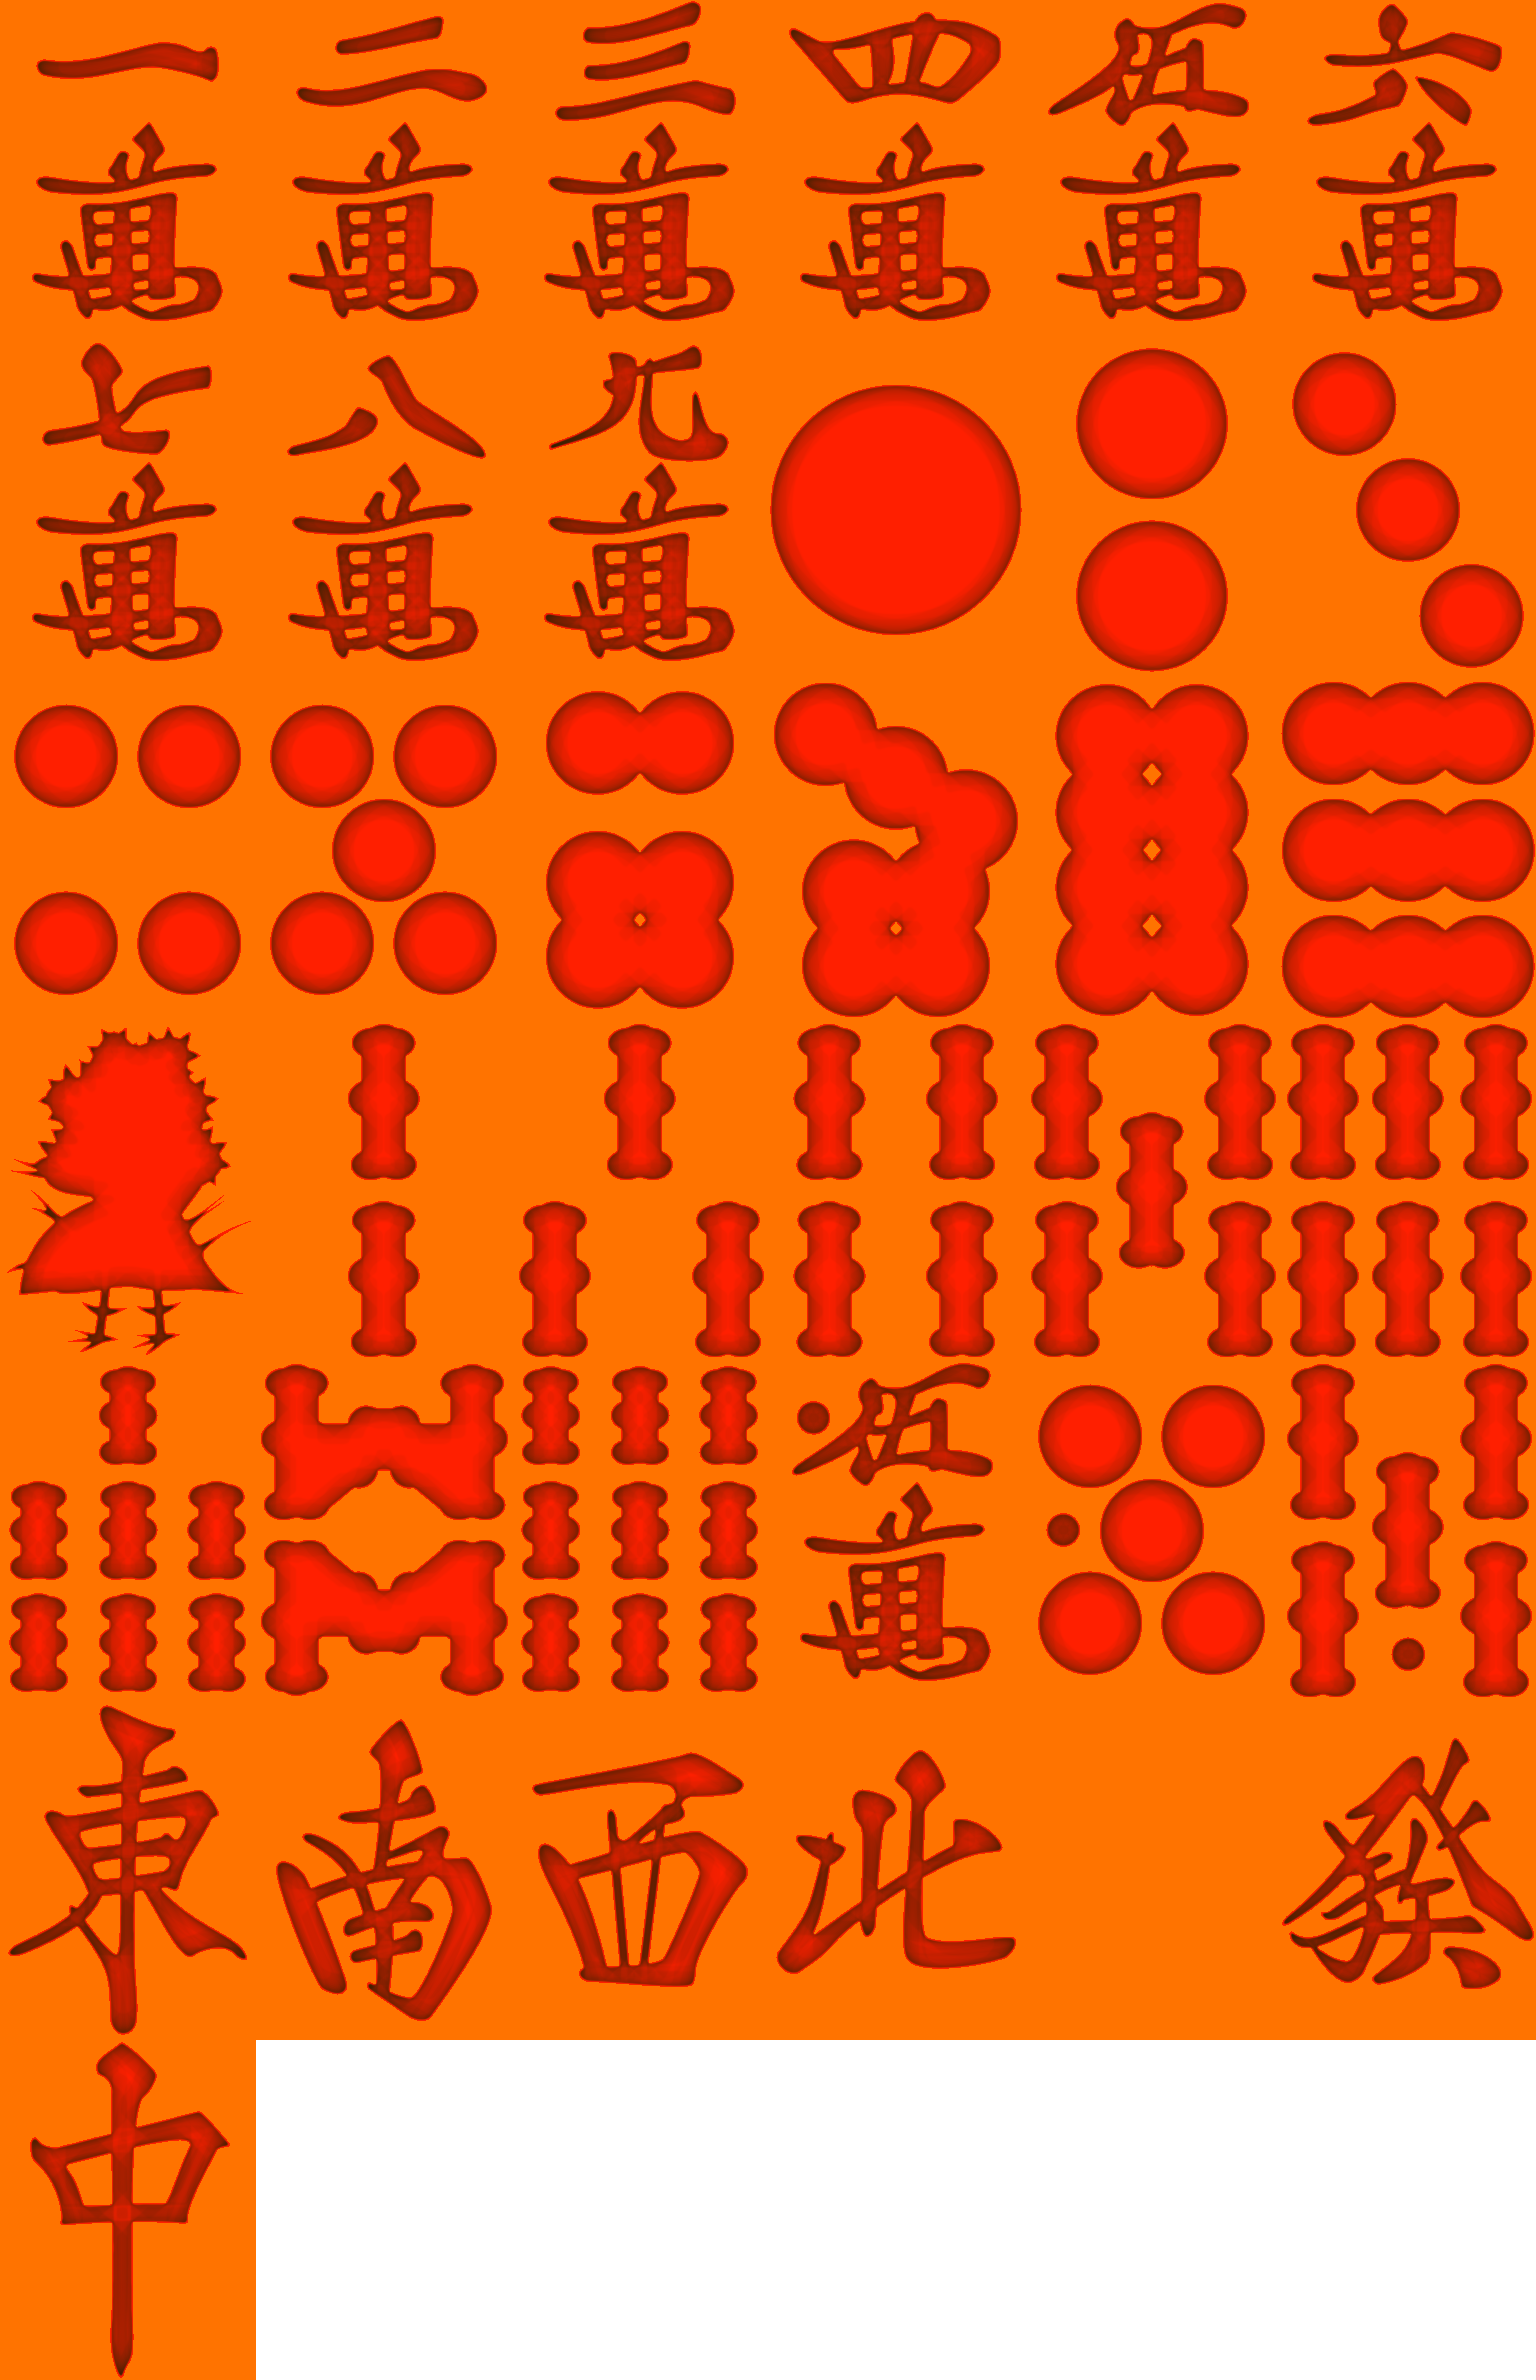
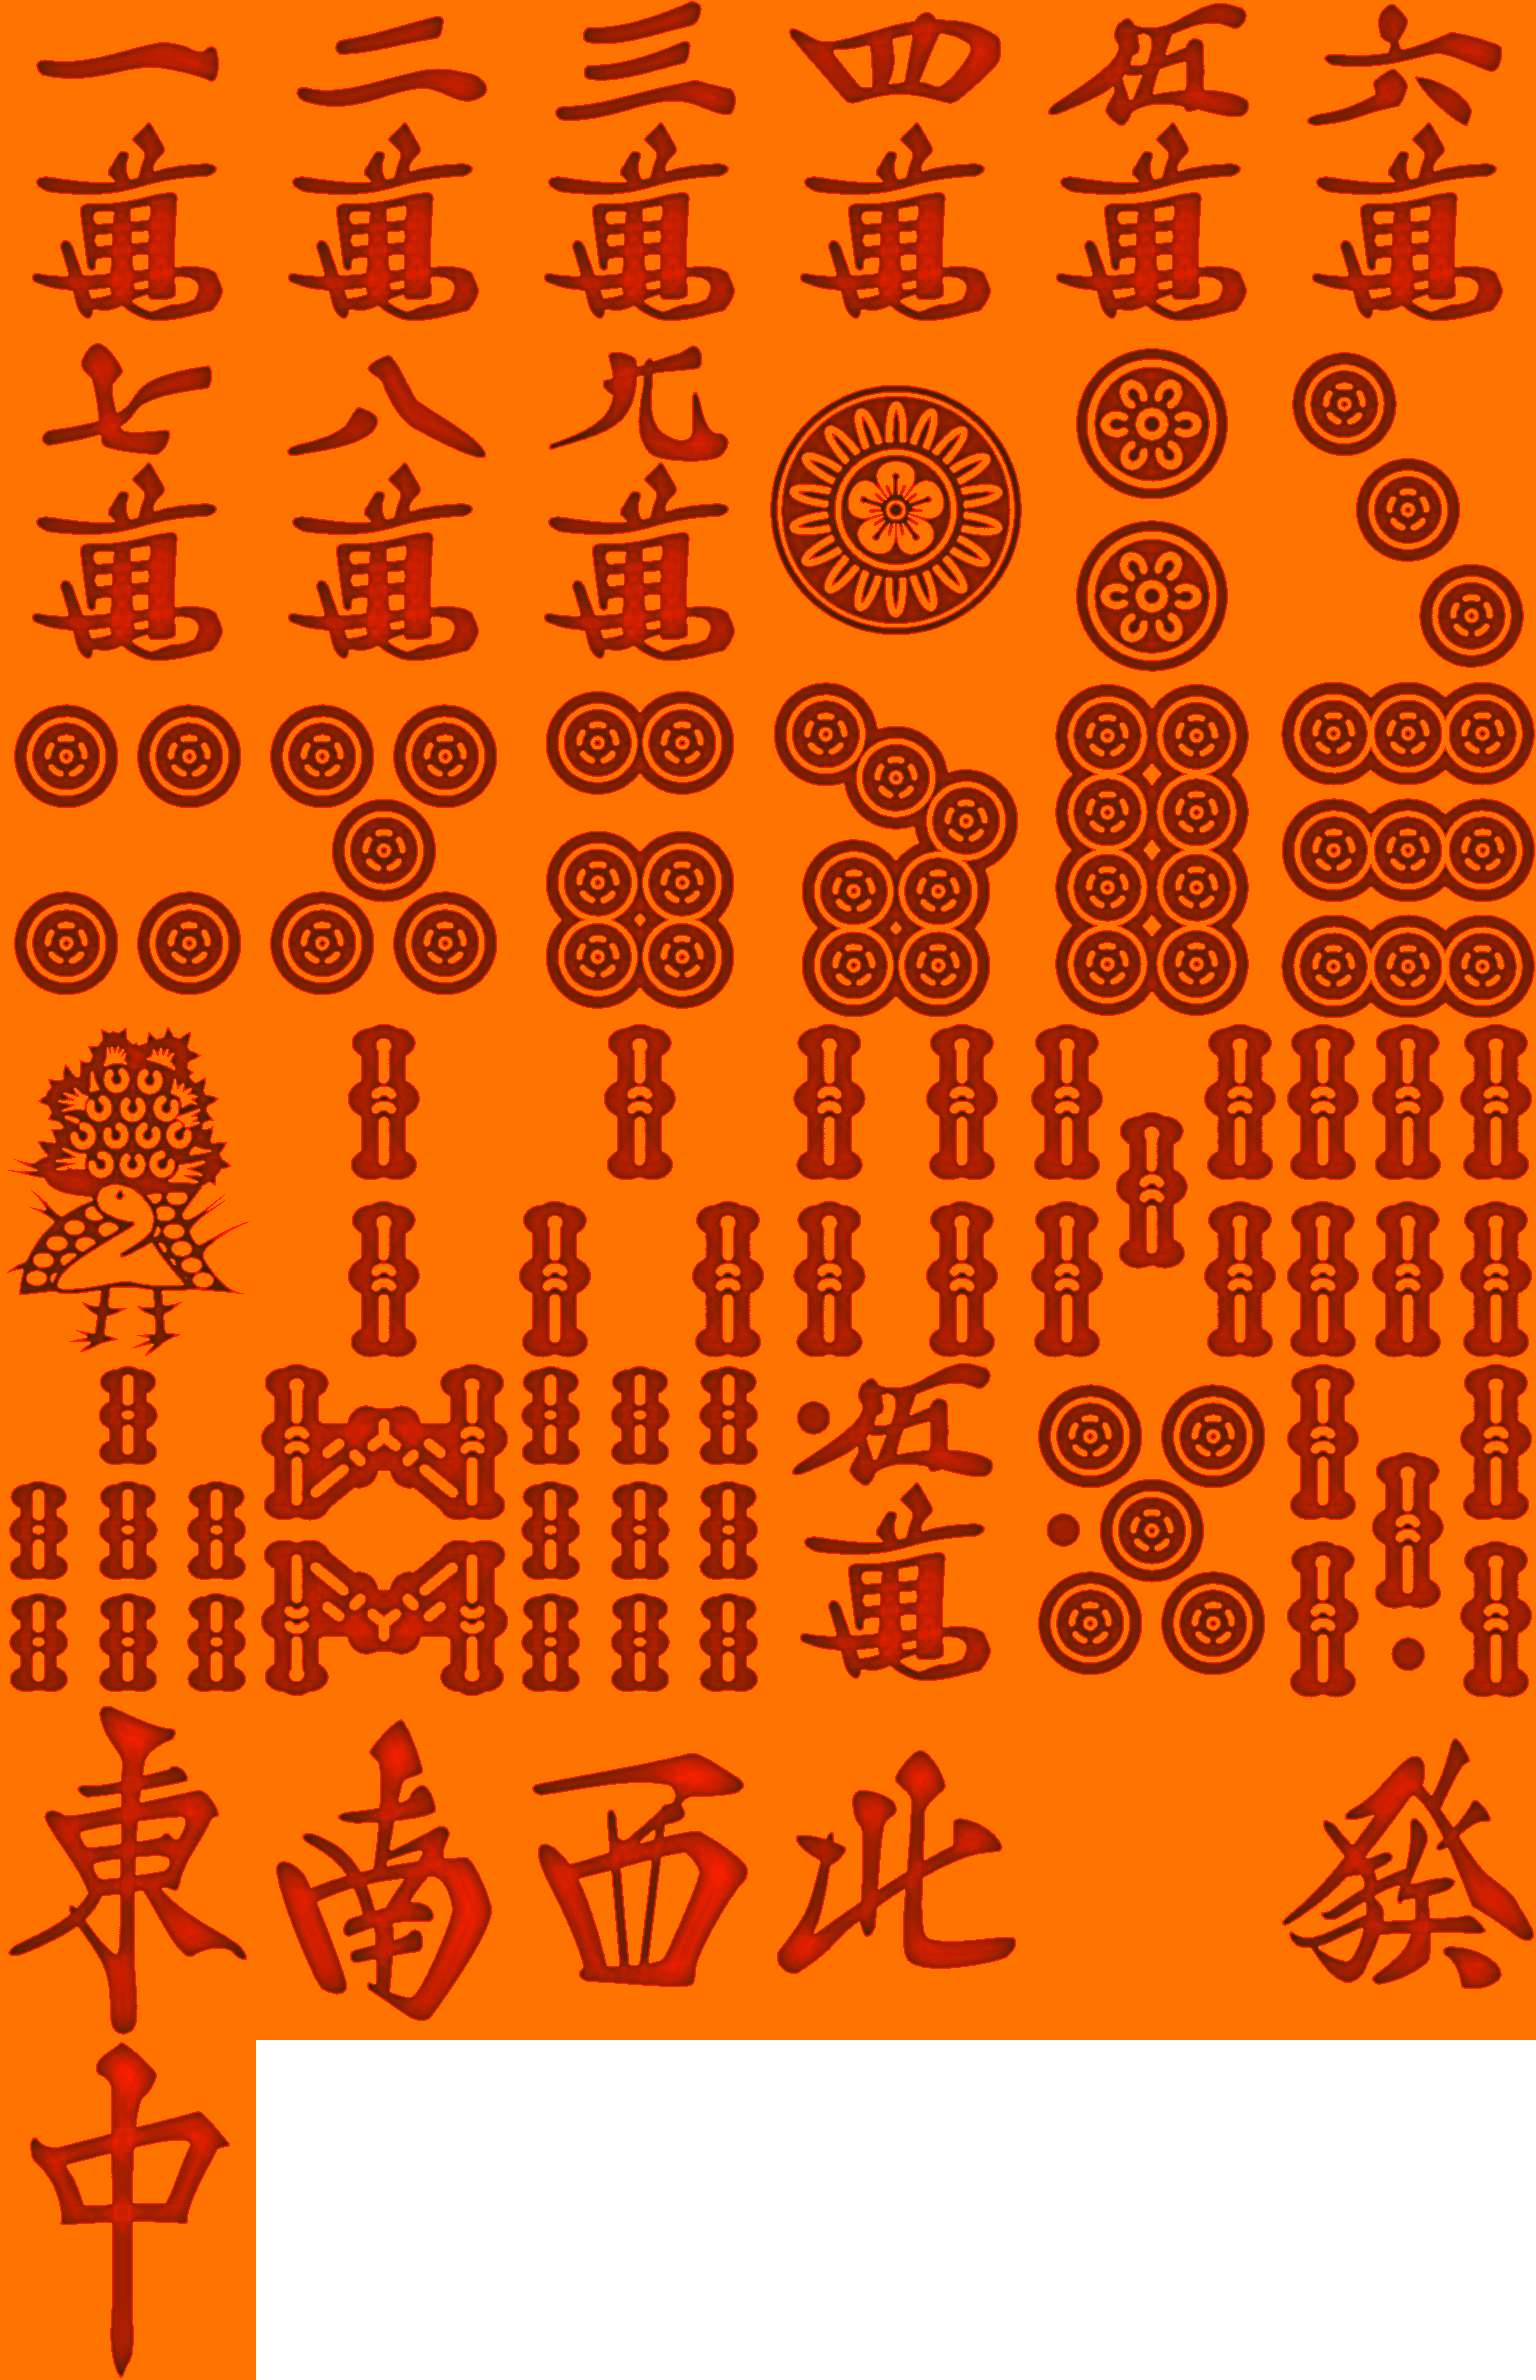
fix(3d): carve only the paint, not the glyph's white (1p pinzu)
On 1p the carve read as one recessed circle. The cause is in the artwork: 1p is
woven with opaque white (17,066 of 87,040 cell pixels, 19.6 %) that is the bare
tile showing through, while 1m has none. Carving the glyph alpha therefore sank
the whole disc instead of leaving the white as raised islands.

- the bake's mask is now `opaque AND dE(colour, ivory) > 10` — the same rule the
  runtime paint probe uses — so only real pigment is carved;
- relief3d publishes its own albedo (pigment from the committed atlas, alpha
  corrected) instead of reusing the committed one, so the shader's paint mask
  and the carve agree;
- manifest pin, loader pin table and the atlas test updated.

Measured on the hand macro: plate ivory p25/p50/p95 230/237/243 with 162 edges
(the raised islands), paint 34-98; 1p whiteFraction 0.196, 1m 0.000 (unchanged).
hero-vs-decal-1p.png and the depth sweeps are refreshed.

Gate: 572 tests, build clean (149.9 KB gzip lazy chunk), lint clean, bake
--check ok.

Changed region(s): [[0.0, 0.1244, 1.0, 0.7151], [0.125, 0.4975, 0.375, 0.7151]]

diff --git a/frontend/src/renderers/three/reliefAssets.test.ts b/frontend/src/renderers/three/reliefAssets.test.ts
@@ -726,7 +726,7 @@ describe('the 3D-owned carve set (3D-17)', () => {
     const manifest = parseReliefManifest(relief3dManifest, PINNED_RELIEF3D_ATLASES);
     expect(manifest.cells.size).toBe(RELIEF_RASTER.faceCount);
     expect(manifest.plateUnits).toEqual(RELIEF_PLATE_UNITS);
-    expect(manifest.atlases.face_albedo.file).toBe('relief/face_albedo.png');
+    expect(manifest.atlases.face_albedo.file).toBe('relief3d/face_albedo.png');
     expect(manifest.atlases.face_normal_depth.file).toBe('relief3d/face_normal_depth.png');
   });
 
@@ -740,8 +740,8 @@ describe('the 3D-owned carve set (3D-17)', () => {
     const requests: ReliefTextureRequest[] = [];
     const fetchImpl: ReliefFetch = async (url) => {
       if (url.endsWith('/table/relief3d.json')) return fileResponse(relief3dBytes);
-      if (url.endsWith('/table/relief/face_albedo.png')) {
-        return fileResponse(readFileSync(join(tableDir, 'relief/face_albedo.png')));
+      if (url.endsWith('/table/relief3d/face_albedo.png')) {
+        return fileResponse(readFileSync(join(tableDir, 'relief3d/face_albedo.png')));
       }
       if (url.endsWith('/table/relief3d/face_normal_depth.png')) {
         return fileResponse(readFileSync(join(tableDir, 'relief3d/face_normal_depth.png')));

diff --git a/frontend/src/renderers/three/reliefAssets.ts b/frontend/src/renderers/three/reliefAssets.ts
@@ -103,25 +103,25 @@ export const PINNED_RELIEF_ATLASES = {
  */
 export const PINNED_RELIEF3D_ATLASES = {
   face_albedo: {
-    file: 'relief/face_albedo.png',
+    file: 'relief3d/face_albedo.png',
     width: 1536,
     height: 2380,
-    bytes: 948566,
[1 lines of base64/hex data omitted]
+    bytes: 588892,
[1 lines of base64/hex data omitted]
   },
   face_normal_depth: {
     file: 'relief3d/face_normal_depth.png',
     width: 1536,
     height: 2380,
-    bytes: 1082742,
[1 lines of base64/hex data omitted]
+    bytes: 1565299,
[1 lines of base64/hex data omitted]
   },
   face_ao_roughness: {
     file: 'relief3d/face_ao_roughness.png',
     width: 1536,
     height: 2380,
-    bytes: 784828,
[1 lines of base64/hex data omitted]
+    bytes: 952842,
[1 lines of base64/hex data omitted]
   },
 } as const;
 

diff --git a/3d_renderer_implementation_plan.md b/3d_renderer_implementation_plan.md
@@ -1134,8 +1134,19 @@ lights, same shader, camera moved in), `hero-overview.png` (the live view at
 committed carved decals converted to PNG and composited on the ivory face, as the
 approved recess to compare against. **Verdict: pending the user's review.**
 
-**Hero face moved to `1p` (same day, at the user's request: "a more complex
-carve").** `1p` is multi-colour (navy 16004 px, white 12539, black 4860, crimson
+**Hero face moved to `1p`, and the carve mask fixed (same day, at the user's
+request: "a more complex carve").** The first `1p` bake carved every opaque
+pixel, so its whole disc sank — "just a recessed circle". `1p`'s artwork is
+woven with **opaque white** (17 066 of 87 040 cell px, 19.6 %) that is the bare
+tile showing through, while `1m` has none: the carve mask is now `opaque AND
+ΔE(colour, ivory) > 10` (the runtime paint probe's rule) and the relief3d albedo
+drops the white to transparent, so the white reads as raised uncarved islands.
+Measured after: plate ivory p25/p50/p95 **230 / 237 / 243**, its edges 162, paint
+34–98; `1p` whiteFraction 0.196, `1m` 0.000. The bake now also publishes its own
+albedo (pigment from the committed atlas, mask corrected) instead of reusing the
+committed one, so the runtime shader sees the same paint the carve does.
+
+**The same request's earlier detail.** `1p` is multi-colour (navy 16004 px, white 12539, black 4860, crimson
 3530 in the committed albedo), so the paint probe is now a **contrast** test —
 the block median must sit at least ΔE 25 from the committed ivory — instead of a
 redness test, and its point is the widest navy band (11.2 texels of clearance).
